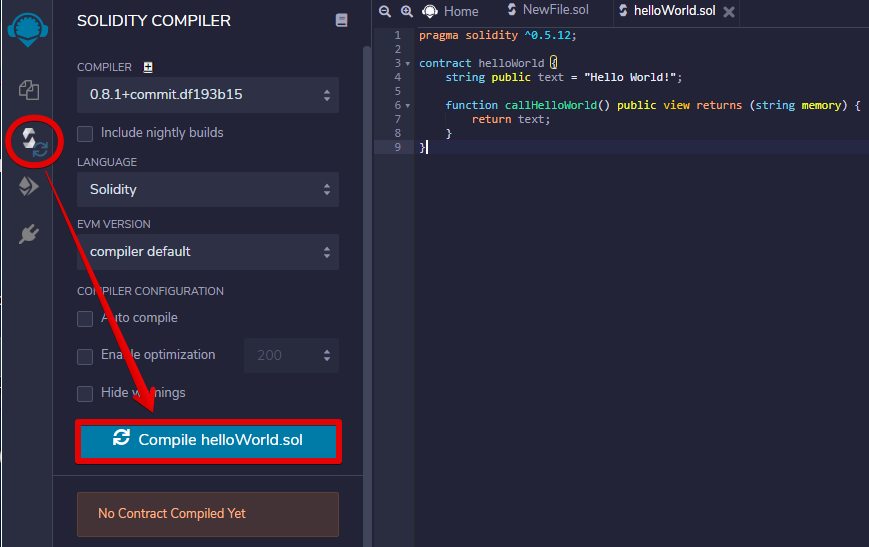
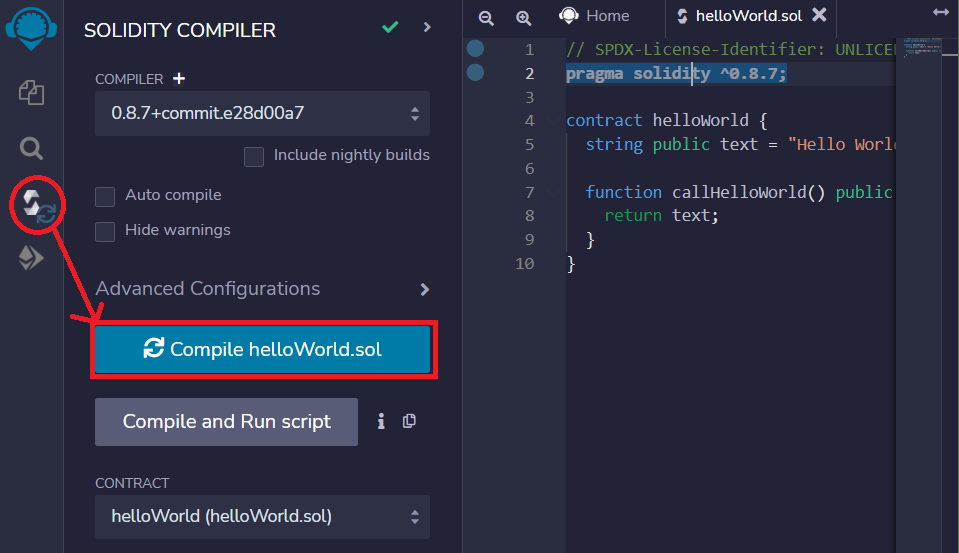
Fixed remix, hardhat, truffle tutorials, gas metering skeleton

diff --git a/sidebars.js b/sidebars.js
@@ -118,11 +118,29 @@ module.exports = {
       ]
     }, {
       type: 'category',
+      label: 'EVM Compatibility',
+      items: [
+        'evm_compatibility/json_rpc_api_methods',
+        'evm_compatibility/gas_metering',
+        {
+              type: 'category',
+              label: 'Architectural Limitations',
+              items: [
+    					'evm_compatibility/architectural_limitations/restriction_on_iterative_trx',
+    					'evm_compatibility/architectural_limitations/erc721_tokens',
+    					'evm_compatibility/architectural_limitations/precompiled_contracts',
+    					'evm_compatibility/architectural_limitations/gas_calculator',
+    					'evm_compatibility/architectural_limitations/unsupported_functions',
+    					'evm_compatibility/architectural_limitations/storage_size_for_account'
+    				]
+            }
+      ]
+    }, {
+      type: 'category',
       label: 'Architecture',
       items: [
         'architecture/neon_evm_arch',
         'architecture/eth_sol_solution',
-        { type: 'doc', label: 'EVM compatibility', id: 'architecture/evm_compatibility' },
         {
           type: 'category',
           label: 'Core Aspects',
@@ -133,19 +151,7 @@ module.exports = {
                    'architecture/core_aspects/proof-of-work',
                    'architecture/core_aspects/transaction',
                    'architecture/core_aspects/web3' ]
-        },
-        {
-              type: 'category',
-              label: 'Architectural Limitations',
-              items: [
-    					'design_proposals/accepted/restriction_on_iterative_trx',
-    					'design_proposals/accepted/erc721_tokens',
-    					'design_proposals/accepted/precompiled_contracts',
-    					'design_proposals/accepted/gas_calculator',
-    					'design_proposals/accepted/unsupported_functions',
-    					'design_proposals/accepted/storage_size_for_account'
-    				]
-            }
+        }
       ]
     },
     { type: 'category', label: 'FAQ', items: [

diff --git a/docs/developing/deploy_facilities/using_truffle.md b/docs/developing/deploy_facilities/using_truffle.md
@@ -14,7 +14,7 @@ With Truffle, you get:
   * Automated deployment and running of tests
 
 ## Prerequisites
-Before you start, make sure of the following software is installed on your device:
+Before you start, make sure the following software is installed on your device:
   * `NodeJS v8.9.4` or later
   * `Web3 v1.2.0` or later
 
@@ -70,17 +70,7 @@ npm install @truffle/hdwallet-provider
 
 Refer to the [official npm package documentation](https://www.npmjs.com/package/@truffle/hdwallet-provider) for the full installation process.
 
-### Step 2: Connect Truffle to a Proxy
-
-To connect Truffle to a proxy on `node.js`, the `eth_accounts` method from the [Ethereum JSON RPC API](https://eth.wiki/json-rpc/API) set is required. This method allows serving a list of *20* byte addresses owned by a client. Since the Neon EVM proxy does not support the `eth_accounts` method required to connect Truffle, the HDWalletProvider library is used to function as this method. The connection is configured in `truffle-config.js`.
-
-The configuration file is publicly available, and therefore the `word mnemonic` and `private key` contained in the file are also publicly available. This makes it possible for the library to use this data. HDWalletProvider obtains the `word mnemonic` or `private key` from the configuration file and uses this data to sign transactions before sending them to the proxy.
-
-This method of configuration is convenient for debug mode, but not suitable for work in real conditions. Since the development process uses "test" wallets, this data is not of any value.
-
-> **Note:** It is strongly recommended to use Truffle in the Neon EVM only for developing or testing contracts.
-
-### Step 3: Add Configuration File
+### Step 2: Connect Truffle to a Proxy using the Configuration File
 The configuration file is called `truffle-config.js` and is located at the root of your project directory. This file is a JavaScript file and can execute any code necessary to create your configuration. Its file schema, variables, and other documentation can be found on the [official Truffle Suite website](https://trufflesuite.com/docs/truffle/reference/configuration/).
 
 The following is a full example of the `truffle-config.js` configuration file for connecting Truffle to a devnet-proxy using the one-way library on Node.js:
@@ -92,9 +82,9 @@ const HDWalletProvider = require("@truffle/hdwallet-provider");
 
 Web3.providers.HttpProvider.prototype.sendAsync = Web3.providers.HttpProvider.prototype.send
 
-const provider = new Web3.providers.HttpProvider("https://proxy.devnet.neonlabs.org/solana");
+const provider = new Web3.providers.HttpProvider("https://devnet.neonevm.org");
 
-const privateKey = "xxxxxxxxxxxxxxxxxxxxxxxxxxxxxxxxxxxxxx"; // Specify your private key here
+const privateKey = "xxxxxxxxxxxxxxxxxxxxxxxxxxxxxxxxx"; // Specify your private key here
 
 module.exports = {
   networks: {
@@ -105,10 +95,7 @@ module.exports = {
           provider,
         );
       },
-      from: "xxxxxxxxxxxxxxxxxxxxxxxxxxxx", // Specify public key corresponding to private key defined above
-      network_id: "*",
-      gas: 3000000000,
-      gasPrice: 443065000000,
+      network_id: "*"
     }
   }
 };
@@ -116,7 +103,15 @@ module.exports = {
 
 > **Note:** If both mnemonic and private keys are provided, the mnemonic takes precedence and is used instead.
 
-### Step 4: Compile Contracts
+To connect Truffle to a proxy on `node.js`, the `eth_accounts` method from the [Ethereum JSON RPC API](https://eth.wiki/json-rpc/API) set is required. This method allows serving a list of *20* byte addresses owned by a client. Since the Neon EVM proxy does not support the `eth_accounts` method required to connect Truffle, the HDWalletProvider library is used to function as this method. The connection is configured in `truffle-config.js`.
+
+The configuration file is publicly available, and therefore the `word mnemonic` and `private key` contained in the file are also publicly available. This makes it possible for the library to use this data. HDWalletProvider obtains the `word mnemonic` or `private key` from the configuration file and uses this data to sign transactions before sending them to the proxy.
+
+This method of configuration is convenient for debug mode, but not suitable for work in real conditions. Since the development process uses "test" wallets, this data is not of any value.
+
+> **Note:** It is strongly recommended to use Truffle in the Neon EVM only for developing or testing contracts.
+
+### Step 3: Compile Contracts
 All of your contracts are located in your project's `contracts/` directory. Before these contracts can be run, they must first be compiled. To compile a Truffle project, change to the root of the directory where the project is located and run the following command:
 ```sh
 truffle compile
@@ -128,7 +123,7 @@ If you want to re-compile all contracts, run the above command with the `--all` 
 truffle compile --all
 ```
 
-### Step 5: Test Contracts
+### Step 4: Test Contracts
 Make sure to test your code before you migrate it to the network. All test files should be located under the `test/` directory.
 
 To run all tests, simply run:
@@ -143,7 +138,7 @@ truffle test <./path/file.js>
 
 The full list of options that you can use for testing can be found under the [truffle test](https://www.trufflesuite.com/docs/truffle/reference/truffle-commands#test) command.
 
-### Step 6: Running Migrations
+### Step 5: Running Migrations
 Migrations are a set of managed deployment scripts used to deploy contracts to the network. These scripts, which are JavaScript files, should be contained in the project's `migrations/` directory.
 
 To run migrations to deploy contracts, run:
@@ -158,7 +153,7 @@ If you need to run all migrations from the beginning, instead of running from th
 truffle migrate --reset
 ```
 
-As a concrete example, to deploy contracts using the **neonlabs** network, described [earlier](using_truffle#truffle-configjs):
+As a concrete example, to deploy contracts to the **neonlabs** network, described [earlier](using_truffle#truffle-configjs):
 ```sh
 truffle migrate --network neonlabs
 ```

diff --git a/docs/evm_compatibility/gas_metering.md b/docs/evm_compatibility/gas_metering.md
@@ -1,0 +1,52 @@
+---
+title: Gas Metering
+---
+
+## intro
+
+The cost of gas in Neon EVM is significantly lower than on Ethereum as it is based on Solana’s
+gas price. It is to be determined taking into consideration:
+● The cost of executing a Solana transaction, which depends on the number of signatures
+specified in the transaction — as mentioned earlier, in Solana transactions only one
+signature (that of the Neon EVM operator) is specified because Neon signatures are
+verified in Neon EVM (see the above section on iterative execution of transactions).
+● A fee to be paid to Neon EVM governance that keeps Neon EVM running.
+● A fee to the Neon EVM operator that executes the transaction.
+The payment means is to be determined by the Neon EVM user:
+● By default, the Neon EVM user pays the Neon EVM operator in ETH tokens.
+● However, Neon EVM provides users with an option to choose any other ERC20 token to
+pay for Neon transactions.
+● The payment preferences are stored in the Solana state.
+
+## How Gas Metering Works on Neon
+
+1. The end-user interacts with the Neon EVM dApp and initiates a Neon transaction using MetaMask.
+2. MetaMask will send Neon transaction details to the Web3 Proxy before the end-user signs the Neon transaction.
+3. The Web3 Proxy will run the Neon transactions details through its internal emulator to identify the estimated amount of storage needed in bytes to carry out the iterative transactions on Solana and the estimated amount of Solana iterative transactions required to complete the entire Neon transaction. The Web3 Proxy uses this data to perform a calculation for the amount of Gas needed to execute the Neon transaction
+4. The Web3 Proxy’s internal Gas Metering System produces an estimated amount of gas needed to execute the Neon transaction for the end-user.
+- This gas amount includes a fee to Solana, a fee to Neon EVM Governance, and a fee to the Neon operator that helps facilitate the transaction.
+5. Information containing the estimated amount of gas is sent back to MetaMask via Web3 API from the proxy.
+6. MetaMask will send a request to the proxy, via web3 API, for the gas cost in NEON tokens for the specified amount of lamports (cost of each lamport in NEON tokens).
+7. The proxy will send MetaMask the gas price in NEON for each lamport needed. It adds a % fee to the gas price (in NEON tokens) for each lamport based on what the operator requests for their services. The default fee charged by operators is 10%; this value can vary.
+8. MetaMask displays the estimated cost to the user.
+9. When the user signs/approves the Neon transaction via MetaMask, MetaMask will send the signed transaction to the Proxy. The Proxy will package the original Neon transaction into a Solana transaction with the additional information gathered by the Gas Metering System.
+10. Neon EVM can’t consume more gas than specified in the Neon transaction. If the execution requires more gas than specified in the Neon transaction, the transaction will fail, and the user will pay for all the gas.
+- The transaction will not fail if the estimated amount provided to MetaMask by the Proxy is used.
+- If the user edits the gas limit above the estimated cost, the transaction may fail.
+
+## How Gas is Calculated
+
+The transaction fee on Neon is calculated based on the Solana transaction cost (proportional to the number of iterative transactions required, if any), the Neon EVM governance pool fee, and the Neon Proxy operator fee (which each operator sets for themselves). 
+
+Gas amount is calculated as follows:
+
+First, calculate gas for “Execute Eth Instructions”
+
+2 * 5000 * iter_count (for an iterative transaction)
+3 * 5000 (for a non-iterative transaction)
+Then, add gas for “Extend Storage Size”
+
+Bytes * 6960
+Gas price = (1 + Operator fee) * SOL-to-NEON-rate
+
+Note: the operators fee is set by individual operators

diff --git a/docs/developing/deploy_facilities/using_hardhat.md b/docs/developing/deploy_facilities/using_hardhat.md
@@ -7,9 +7,13 @@ Hardhat is a development environment used to compile, deploy, test, and debug Et
 Details on how to use the Hardhat framework will not be described here. You can find all necessary information by reading the [Hardhat documentation](https://hardhat.org/getting-started/#overview).
 
 ## Prerequisites
-Before you start, make sure of the following software is installed on your device:
+Before you start, make sure the following software is installed on your device:
   * `NodeJS v8.9.4` or later
   * `Web3 v1.2.0` or later
+
+Also make sure that the following is true:
+  * MetaMask is installed on your device.
+  * MetaMask is configured for the Neon EVM.
 
 ## Network Configurations
   * [Solana cluster](https://docs.solana.com/clusters) is accessed via a proxy.
@@ -34,9 +38,9 @@ Since Neon is an Ethereum-compatible virtual machine and RPC, migration of exist
 ```js
 require("@nomiclabs/hardhat-waffle");
 
-const proxy_url = 'https://proxy.devnet.neonlabs.org/solana';
+const proxy_url = 'https://devnet.neonevm.org';
 const network_id = 245022926;
-const deployerPrivateKey = 'PLACE_YOUR_PRIVATE_KEY_HERE'; // place your private key here (Note: the corresponding wallet must have a non-zero balance of NEON tokens in order to pay for gas fees. Devnet NEON tokens can be obtained for free at https://neonfaucet.org/)
+const deployerPrivateKey = "xxxxxxxxxxxxxxxxxxxxxxxxxxxxxxxxx"; // Specify your private key here
 
 module.exports = {
   solidity: "0.8.4",
@@ -47,9 +51,6 @@ module.exports = {
       accounts: [deployerPrivateKey],
       network_id: network_id,
       chainId: network_id,
-      gas: 3000000,
-      gasPrice: 1000000000,
-      blockGasLimit: 10000000,
       allowUnlimitedContractSize: false,
       timeout: 1000000,
       isFork: true
@@ -103,11 +104,39 @@ To create a default project, select `Create a JavaScript project` or `Create a T
 To start with an empty project folder, select the `Create an empty hardhat.config.js` option, which will create only an empty hardhat.config.js file. This file can be replaced with the configuration file shown [above](using_hardhat#hardhatconfigjs).
 
 ### Step 3: Compilation
-To compile your project, simple run:
+To compile your project, simply run:
 
 ```bash
 npx hardhat compile
 ```
+
+### Step 4: Deploy Contract
+To deploy your JavaScript project, run the following command from the project folder:
+
+```bash
+npx hardhat run ./scripts/deploy.js
+```
+
+If your project is written in TypeScript, run the following command instead to deploy:
+
+```bash
+npx hardhat run ./scripts/deploy.ts
+```
+
+Running the relevant command should result in output similar to the following:
+
+```
+Deploying contracts with the account: 0xcB31Ce6E4Ff9E2C8f6CbB7044dd9529263a846De
+
+Contract address is: 0x66eCCEe29F6FbDb055379A557f8fb7716964dF1a
+
+Minting 100000000000 tokens...
+
+Balance of deployer is: BigNumber { value: "100000000000" }
+```
+
+### Step 5: Connect Project to MetaMask
+To import your project as an asset in MetaMask, follow the instructions [here](https://metamask.zendesk.com/hc/en-us/articles/360015489031-How-to-add-unlisted-tokens-custom-tokens-in-MetaMask#h_01FWH492CHY60HWPC28RW0872H) and use the contract address from the previous step as the 'Token Contract Address' in MetaMask.
 
 ## Example Project
 An example Hardhat project can be found [here](https://github.com/neonlabsorg/examples/tree/main/simple-erc20-hardhat).

diff --git a/docs/developing/deploy_facilities/using_remix.md b/docs/developing/deploy_facilities/using_remix.md
@@ -6,8 +6,7 @@ title: Using Remix
 
 ## Requirements
 Before you start, make sure that the following is true:
-  * MetaMask is installed on your device.  
-  * You have provided online access to https://remix.ethereum.org to use the "Remix - Ethereum IDE" open-source web application.
+  * MetaMask is installed on your device.
   * MetaMask is configured for the Neon EVM.
 
 ## Network Configurations
@@ -36,7 +35,8 @@ Click on the icon `Create New File` and type in the file name in the field that 
 
 #### helloWorld.sol
 ```
-pragma solidity ^0.5.12;
+// SPDX-License-Identifier: UNLICENSED
+pragma solidity ^0.8.7;
 
 contract helloWorld {
   string public text = "Hello World!";
@@ -47,7 +47,7 @@ contract helloWorld {
 }
 ```
 
-At this point, it is an empty file. To fill it with content, click on the created file name and type the text on the right side of the explorer (or copy your pre-prepared text there) (Fig. 2).  
+At this point, it is an empty file. To fill it with content, click on the created file name and type the text shown above (or copy your pre-prepared text there) (Fig. 2).  
 
 <div class='neon-img-width-600' style={{textAlign: 'center'}}>
 
@@ -59,7 +59,7 @@ Fig. 2 — Loading the helloWorld smart contract
 
 ### Step 3: Compile the Smart Contract
 
-In the left side menu, select the `Solidity compiler`. The `SOLIDITY COMPILER` menu will be active.  
+In the left side menu, select the `Solidity compiler` tab. The `SOLIDITY COMPILER` menu will be active.  
 
 Click on the `Compile helloWorld.sol` button to compile the loaded smart contract helloWorld (Fig. 3).  
 
@@ -84,13 +84,15 @@ Fig. 4 — Compilation details
 
 ### Step 4: Connect Remix to MetaMask
 
-Interactions with Neon EVM are carried out through MetaMask. Choose the `Injected Web3` environment to connect Remix with an active account in Metamask (Fig. 5). Make sure that your Metamask wallet is set to display the Neon Devnet network before you do this step. 
+Interactions with Neon EVM are carried out through MetaMask. In the left sidebar menu, select `Deploy & run transactions`. The `DEPLOY & RUN TRANSACTIONS` menu will become active.
 
-<div class='neon-img-width-300' style={{textAlign: 'center'}}>
+Choose the `Injected Provider - Metamask` environment to connect Remix with an active account in MetaMask (Fig. 5). Make sure that your MetaMask wallet is set to display the Neon Devnet network before you do this step. 
+
+<div class='neon-img-width-600' style={{textAlign: 'center'}}>
 
 ![](img/remix-5.png)
 
-Fig. 5 — Injected Web3 connects Remix with an active account in Metamask
+Fig. 5 — "Injected Provider" connects Remix with an active account in Metamask
 
 </div>
 
@@ -115,9 +117,6 @@ Fig. 7
 </div>
 
 ### Step 5: Deploy a Smart Contract on Solana Devnet
-
-In the left sidebar menu, select `Deploy & run transactions`. The `DEPLOY & RUN TRANSACTIONS` menu will become active.  
-
 In our case, there is only one smart contract to deploy, therefore it is automatically selected from the dropdown and Remix will automatically generate a transaction.  
 
 The `Account` field will display the amount in the wallet account. This data is taken from MetaMask.  
@@ -181,8 +180,6 @@ Congratulations! You can now call methods of the helloWorld smart contract deplo
 Fig. 13 — Calling the smart contract methods
 
 </div>
-
-## Example Project
 
 ----
 

diff --git a/docs/evm_compatibility/json_rpc_api_methods.md b/docs/evm_compatibility/json_rpc_api_methods.md
@@ -1,5 +1,5 @@
 ---
-title: Ethereum JSON-RPC Compatibility
+title: JSON-RPC API Methods
 ---
 
 *The following tables present the full list of JSON-RPC methods. Each of them is in one of the states:*
